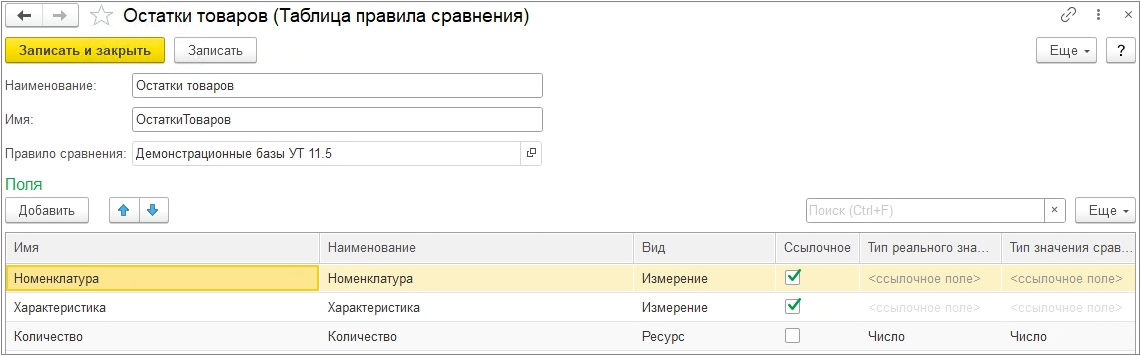
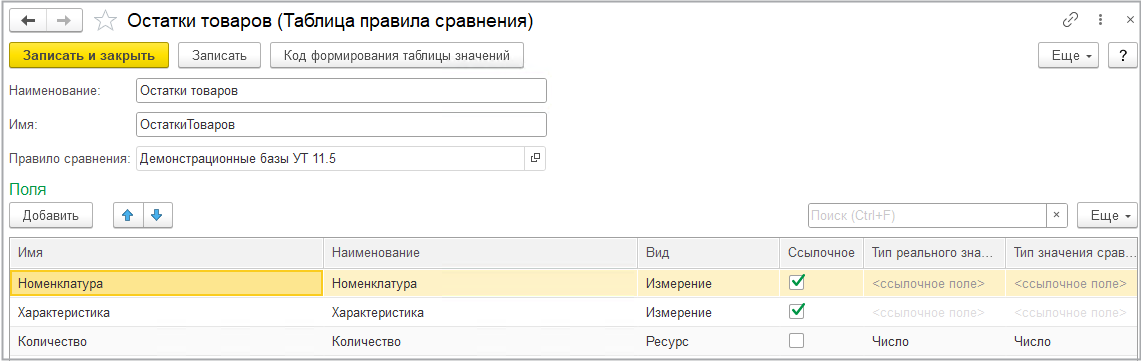
Дополнения по результату доработки версии 1.0.1

diff --git a/docs/work/comparison/concept.md b/docs/work/comparison/concept.md
@@ -4,8 +4,9 @@
 
 Сравнение данных по каждой из таблиц правила сравнения делится на следующие этапы:
 
-1. **Подготовка таблиц выгрузок**. Таблицы, выгружаемые из сравниваемых баз, не обрабатываются Мастером выгрузки данных и записываются в файл выгрузки "как есть". На этом этапе Сравнитель приводит обе исходные таблицы к виду, описанному в описании таблицы правила сравнения разработчиком правила сравнения;
+1. **Подготовка таблиц выгрузок**. Таблицы, выгружаемые из целевых баз, не обрабатываются Мастером выгрузки данных и записываются в файл выгрузки "как есть". На этом этапе Сравнитель приводит обе исходные таблицы к виду, описанному в описании таблицы правила сравнения разработчиком правила сравнения;
 2. **Преобразование реальных значений в значения сравнения**. Реальные значения (значения, прочитанные из исходной выгрузки) не используются для работы Сравнителя. Для соотнесения значений измерений, а также для сравнения значений ресурсов применяются **значения сравнения**. На данном этапе "рядом" с таблицами реальных значений создаются таблицы значений сравнения. Разработчик правила сравнения может определить произвольную логику преобразования значений отдельных полей, используя [подключаемую обработку сравнения](../../development/comp-rules/comparison-epf.md);
-3. **Соотнесение строк**. Сравнитель производит соотнесение строк из таблицы 1-й ИБ с таблицей 2-й ИБ. Соотнесение происходит по совпадению значений всех измерений одной строки со значениями всех измерений другой строки;
-4. **Сравнение ресурсов соотнесенных строк**. В соотнесенных строках теперь сравниваются значения ресурсов. Если значения всех ресурсов равны, обработка этой пары строк прекращается. Произвольная логика сравнения ресурсов и определения того, равны ли две строки, может быть определена в [подключаемой обработке сравнения](../../development/comp-rules/comparison-epf.md);
-5. **Запись результата сравнения**. По окончании обхода пар соотнесенных строк Сравнитель получает таблицы с расхождениями - строками, на которые нужно обратить внимание пользователю. Эти строки записываются в текущий документ "**Сравнение данных**". На этом этапе из реальных значений также формируются **представления** для вывода пользователю в отчете о расхождениях. Нестандартная логика преобразования реальных значений в представления может быть определена в [подключаемой обработке сравнения](../../development/comp-rules/comparison-epf.md).
+3. **Контроль дублирования строк**. Сравнитель проверяет таблицы значений сравнения на предмет наличия дубликатов строк по значениям измерений. При наличии дубликатов сравнение будет прервано, документ примет статус "**Проблема с данными**";
+4. **Соотнесение строк**. Сравнитель производит соотнесение строк из таблицы 1-й ИБ с таблицей 2-й ИБ. Соотнесение происходит по совпадению значений всех измерений одной строки со значениями всех измерений другой строки;
+5. **Сравнение ресурсов соотнесенных строк**. В соотнесенных строках теперь сравниваются значения ресурсов. Если значения всех ресурсов равны, обработка этой пары строк прекращается. Произвольная логика сравнения ресурсов и определения того, равны ли две строки, может быть определена в [подключаемой обработке сравнения](../../development/comp-rules/comparison-epf.md);
+6. **Запись результата сравнения**. По окончании обхода пар соотнесенных строк Сравнитель получает таблицы с расхождениями - строками, на которые нужно обратить внимание пользователю. Эти строки записываются в текущий документ "**Сравнение данных**". На этом этапе из реальных значений также формируются **представления** для вывода пользователю в отчете о расхождениях. Нестандартная логика преобразования реальных значений в представления может быть определена в [подключаемой обработке сравнения](../../development/comp-rules/comparison-epf.md).

diff --git a/docs/work/data-delivery/to-comparator.md b/docs/work/data-delivery/to-comparator.md
@@ -1,10 +1,10 @@
-# Передача выгрузок Сравнителю сравниваемыми базами
+# Передача выгрузок Сравнителю целевыми базами
 ---
-> ***Внимание!** Для применения данного сценария требуется установить [Мастер выгрузки данных](wizard-install.md) в каждую из сравниваемых информационных баз.*
+> ***Внимание!** Для применения данного сценария требуется установить [Мастер выгрузки данных](wizard-install.md) в каждую из целевых информационных баз.*
 
-> ***Внимание!** Для работы этого сценария требуется, чтобы обе сравниваемые базы работали в операционной системе Windows, а в системе была зарегистрирована COM-компонента V83.COMConnector той же версии платформы, на которой работают сравниваемые ИБ и ИБ Сравнителя. Поддержка подключения к Сравнителю через Web-сервис планируется в будущих версиях конфигурации.*
+> ***Внимание!** Для работы этого сценария требуется, чтобы обе целевые базы работали в операционной системе Windows, а в системе была зарегистрирована COM-компонента V83.COMConnector той же версии платформы, на которой работают целевые ИБ и ИБ Сравнителя. Поддержка подключения к Сравнителю через Web-сервис планируется в будущих версиях конфигурации.*
 
-Данный сценарий срабатывает исключительно по инициативе сравниваемых информационных баз. В каждой из сравниваемых баз настраивается:
+Данный сценарий срабатывает исключительно по инициативе целевых информационных баз. В каждой из целевых баз настраивается:
 
 - Строка соединения и данные пользователя **информационной базы Сравнителя**;
 - Расписание команды "**Выгрузить данные в Сравнитель**".
@@ -12,4 +12,4 @@
 Помимо данных информационной базы Сравнителя, в настройках Мастера выгрузки также требуется указать:
 
 - **Идентификатор правила сравнения** - его можно получить в карточке правила сравнения в Сравнителе;
-- **Ключ пары ИБ** - позволяет идентифицировать эту пару ИБ и отличить ее от других пар ИБ, сравниваемых по этому же правилу сравнения. Должен быть **одинаковым** в настройках обеих сравниваемых баз, а также **не повторяться** в других парах сравниваемых баз, которые передают данные этим же сценарием в ту же информационную базу Сравнителя.
+- **Ключ пары ИБ** - позволяет идентифицировать эту пару ИБ и отличить ее от других пар ИБ, сравниваемых по этому же правилу сравнения. Должен быть **одинаковым** в настройках обеих целевых баз, а также **не повторяться** в других парах информационных баз, которые передают данные в ту же информационную базу Сравнителя и используют то же правило сравнения.

diff --git a/docs/work/data-delivery/using-file-system.md b/docs/work/data-delivery/using-file-system.md
@@ -1,15 +1,15 @@
 # Передача и получение выгрузок через файловую систему
 ---
-> ***Внимание!** Для применения данного сценария требуется установить [Мастер выгрузки данных](wizard-install.md) в каждую из сравниваемых информационных баз.*
+> ***Внимание!** Для применения данного сценария требуется установить [Мастер выгрузки данных](wizard-install.md) в каждую из целевых информационных баз.*
 
-Этот сценарий требует настройки как со стороны сравниваемых баз, так и со стороны Сравнителя. Его логика работы следующая:
+Этот сценарий требует настройки как со стороны целевых баз, так и со стороны Сравнителя. Его логика работы следующая:
 
 1. Первая сравниваемая ИБ выполняет самостоятельную выгрузку в каталог 1-й ИБ;
 2. Вторая сравниваемая ИБ обрабатывает еще не обрабатывавшиеся выгрузки 1-й ИБ путем определения списка файлов в каталоге 1-й ИБ, которых нет в каталоге 2-й ИБ. Первая база читает общие параметры выгрузки и список выгруженных таблиц из выгрузок 1-й ИБ и, используя эти данные, выгружает свои данные в каталог 2-й ИБ;
 3. Информационная база Сравнителя ищет выгрузки, присутствующие в обоих каталогах (т.е. уже обработанные 2-й ИБ), записывает их в новый документ "**Сравнение данных**" и удаляет оба файла выгрузок.
 
-В Мастере выгрузки на стороне сравниваемых ИБ необходимо выбрать сценарий "**Файловая система**".
+В Мастере выгрузки на стороне целевых ИБ необходимо выбрать сценарий "**Файловая система**".
 
 В Сравнителе необходимо создать новый **сценарий получения выгрузок данных** (справочник доступен в разделе "**Выгрузка и сравнение**"). В качестве вида сценария необходимо указать "**Файловая система**" и выбрать каталоги, в которые выгружают данные 1-я и 2-я ИБ.
 
-Для автоматизации данного сценария требуется установить расписание выгрузки в Мастере выгрузки данных в сравниваемых базах, а также включить выполнение сценария в Сравнителе по расписанию.
+Для автоматизации данного сценария требуется установить расписание выгрузки в Мастере выгрузки данных в целевых базах, а также включить выполнение сценария в Сравнителе по расписанию.

diff --git a/docs/settings/updating.md b/docs/settings/updating.md
@@ -1,0 +1,15 @@
+# Установка обновлений приложения
+---
+Перед установкой обновления необходимо распаковать архив поставки и выполнить установку комплекта поставки **новой** версии (см. [инструкцию по установке конфигурации](../introduction/beginning/install.md)).
+
+## Обновление типовой версии конфигурации
+Если в конфигурации не включалась возможность редактирования через Конфигуратор, обновление можно выполнить без использования Конфигуратора. Для этого необходимо перейти в раздел "**Настройка**", выбрать "**Обслуживание**", раскрыть подменю "**Обновление приложения**" и нажать на гиперссылку "**Установка обновлений и исправлений (патчей)**".
+
+В открывшейся форме необходимо выбрать файл `1cv8.cfu` из каталога поставки **новой** версии конфигурации (путь к каталогу указывается в установщике поставки). После выбора файла необходимо нажать "**Далее**" и следовать дальнейшим инструкциям.
+
+## Обновление конфигурации с внесенными изменениями
+Если конфигурация находится в режиме поддержки "**На поддержке с возможностью изменения**", то для обновления потребуется использование Конфигуратора.
+
+В Конфигураторе необходимо перейти в меню "**Конфигурация**", раскрыть подменю "**Поддержка**" и выбрать "**Обновить конфигурацию**". В открывшемся диалоговом окне необходимо выбрать файл `1cv8.cfu` из каталога поставки **новой** версии конфигурации и следовать дальнейшим инструкциям.
+
+После обновления Конфигуратор может предложить обновить конфигурацию базы данных, делать это из Конфигуратора **не следует**. Для завершения обновления необходимо открыть программу в режиме 1С:Предприятия, перейти в меню "**Конфигурация**", раскрыть подменю "**Поддержка**" и выбрать "**Обновить конфигурацию**". В открывшемся диалоговом окне необходимо выбрать вариант "**Файл обновления не требуется, так как он уже загружен в основную конфигурацию**". После этого нажать "**Далее**" и следовать дальнейшим инструкциям.

diff --git a/docs/work/data-delivery/from-comparator.md b/docs/work/data-delivery/from-comparator.md
@@ -1,9 +1,9 @@
-# Получение выгрузки от сравниваемых баз по инициативе Сравнителя
+# Получение выгрузки от целевых баз по инициативе Сравнителя
 ---
-> ***Внимание!** Для работы этого сценария требуется, чтобы Сравнитель работал в операционной системе Windows, а в системе была зарегистрирована COM-компонента V83.COMConnector той же версии платформы, на которой работают сравниваемые ИБ и ИБ Сравнителя.*
+> ***Внимание!** Для работы этого сценария требуется, чтобы Сравнитель работал в операционной системе Windows, а в системе была зарегистрирована COM-компонента V83.COMConnector той же версии платформы, на которой работают целевые ИБ и ИБ Сравнителя.*
 
-Данный сценарий предполагает настройку только со стороны Сравнителя. Он заключается в том, что Сравнитель самостоятельно подключается к каждой из сравниваемых баз, используя COM-соединение и получает от них данные. Полученные выгрузки записываются в новый документ "**Сравнение данных**".
+Данный сценарий предполагает настройку только со стороны Сравнителя. Он заключается в том, что Сравнитель самостоятельно подключается к каждой из целевых баз, используя COM-соединение и получает от них данные. Полученные выгрузки записываются в новый документ "**Сравнение данных**".
 
-Для настройки сценария необходимо создать новый **сценарий получения выгрузок данных** (справочник доступен в разделе "**Выгрузка и сравнение**"). В качестве вида сценария необходимо указать "**Прямое подключение к сравниваемым ИБ**" и указать данные для подключения к каждой из сравниваемых ИБ.
+Для настройки сценария необходимо создать новый **сценарий получения выгрузок данных** (справочник доступен в разделе "**Выгрузка и сравнение**"). В качестве вида сценария необходимо указать "**Прямое подключение к целевым ИБ**" и указать данные для подключения к каждой из целевых ИБ.
 
 Для автоматизации данного сценария требуется включить выполнение сценария по расписанию.

diff --git a/docs/development/comp-rules/catalogs.md b/docs/development/comp-rules/catalogs.md
@@ -11,6 +11,8 @@
 
 На форме также присутствует интерфейс для загрузки **подключаемых обработок** выгрузки и сравнения. Для загрузки обработки, выгрузки обработки в файл, а также удаления обработки из правила сравнения следует использовать гиперссылку "**Действия**" справа от имени файла обработки.
 
+Для автоматического формирования содержимого функции `ПоддерживаемыеТаблицы` подключаемой обработки можно воспользоваться командой "**ПоддерживаемыеТаблицы()**".
+
 ## Таблицы правил сравнения
 
 Из карточки правила сравнения можно перейти к списку принадлежащих правилу **таблиц правила сравнения**.
@@ -27,5 +29,7 @@
 - **Наименование** - используется только для вывода в программе;
 - **Вид** - указывает, что поле является либо измерением, либо ресурсом;
 - **Ссылочное** - включает режим ссылочного поля. Типы реального значения и значения сравнения становятся недоступными для редактирования;
-- **Тип реального значения** - тип значения, фактически выгружаемого из сравниваемых информационных баз;
+- **Тип реального значения** - тип значения, фактически выгружаемого из целевых информационных баз;
 - **Тип значения сравнения** - тип значения, используемого для сравнения.
+
+Также, в карточке таблицы имеется команда "**Код формирования таблицы значений**". Эта команда генерирует программный код на встроенном языке на основании данных полей таблицы. Этот код можно использовать в функциях `ВыгрузитьТаблицу<...>` подключаемой обработки выгрузки.

diff --git a/docs/settings/patches.md b/docs/settings/patches.md
@@ -1,0 +1,17 @@
+# Установка исправлений (патчей)
+---
+**Патчи** - это небольшие расширения конфигурации, позволяющие применить исправления найденных в конфигурации ошибок без необходимости полного обновления и прерывания работы пользователей. Для применения патча достаточно перезайти в приложение тем пользователям, которым мешает исправляемая ошибка.
+
+Патчи для Сравнителя имеют расширение `cfe`, а их имя начинается с `EF_COMP` (например, `EF_COMP_GL5_01.epf`).
+
+Каждый патч предназначен для определенных сборок конфигурации, поэтому при [обновлении версии Сравнителя](updating.md) все установленные патчи автоматически удаляются.
+
+Работа с патчами осуществляется в подменю "**Обновление приложения**" формы "**Обслуживание**" раздела "**Настройка**".
+
+## Просмотр и управление установленными патчами
+
+По гиперссылке "**Установленные исправления (патчи)**" можно просмотреть список установленных в приложении патчей, а также осуществлять действия с ними:
+
+* **Установить исправление** - позволяет установить патч из файла на компьютере. Допускается установка как отдельного патча (файл с расширением `cfe`), так и ZIP-архива с несколькими патчами;
+* **Удалить исправление** - позволяет удалить патч из приложения;
+* **Выгрузить подключеннные исправления** - выгружает все установленные патчи в ZIP-архив. Для выгрузки одного патча из списка следует выделить его в списке и использовать команду "**Сохранить как**" в подменю "**Еще**".

diff --git a/docs/introduction/about/concept.md b/docs/introduction/about/concept.md
@@ -11,14 +11,14 @@
 ### Таблицы правил сравнения
 Каждая таблица правила сравнения позволяет передавать для сравнения данные определенного характера. В примере этой статьи будет таблица "**Остатки товаров**".
 
-Каждая таблица имеет **поля**, отражающие колонки таблиц, выгружаемых из сравниваемых информационных баз.
+Каждая таблица имеет **поля**, отражающие колонки таблиц, выгружаемых из целевых информационных баз.
 
 Каждое поле может быть либо **измерением**, либо **ресурсом**. Измерения предназначены для однозначной идентификации строк таблицы, а ресурсы содержат значения, которые нужно сравнивать.
 
 Рассматривая пример с остатками товаров, можно задать таблицу, в которой будут **измерения** "*Номенклатура*" и "*Характеристика*", а также ресурс "*Остаток*", содержащий количество товара на остатках.
 
 ## Выгрузка данных
-Первый этап итерации сравнения данных - это выгрузка данных из двух сравниваемых информационных баз и передача этих выгрузок в Сравнитель. Выгрузки хранят таблицы правил сравнения, наполненные данными из сравниваемых баз.
+Первый этап итерации сравнения данных - это выгрузка данных из двух целевых информационных баз и передача этих выгрузок в Сравнитель. Выгрузки хранят таблицы правил сравнения, наполненные данными из целевых баз.
 
 ## Сравнение данных
 Когда две выгрузки поступили в Сравнитель, данные в них можно сравнить.

diff --git a/docs/development/comp-rules/data-export-epf.md b/docs/development/comp-rules/data-export-epf.md
@@ -59,6 +59,8 @@
 КонецФункции
 ```
 
+> **СОВЕТ:** Для автоматического формирования содержимого этой функции по данным правила сравнения Сравнителя рекомендуется использовать кнопку "**ПоддерживаемыеТаблицы**" в карточке правила сравнения.
+
 ### Функция ОбщиеПараметрыВыгрузки
 При выгрузке из 1-й ИБ единоразово вычисляет общие параметры выгрузки - произвольное значение, передаваемое в функции выгрузки таблиц.
 
@@ -134,6 +136,8 @@
 	Возврат СтрШаблон("%1 %2", Ссылка.УникальныйИдентификатор(), Ссылка);
 КонецФункции
 ```
+
+> **СОВЕТ:** Для автоматического формирования участка кода, формирующего выгружаемую таблицу значений, из данных Сравнителя рекомендуется использовать кнопку "**Код формирования таблицы значений**" в карточке таблицы правила сравнения.
 
 ### Выгрузка значений ссылочных полей
 Если поле в таблице правила сравнения имеет флажок "**Ссылочное**", его необходимо выгружать в виде строки следующего формата:

diff --git a/docs/introduction/about/newvers.md b/docs/introduction/about/newvers.md
@@ -17,6 +17,6 @@
 
 - **1Cv8.cf** - файл конфигурации Сравнителя. Может быть использован для создания информационной базы из шаблона;
 - **1Cv8.cfu** - файл обновления конфигурации с предыдущих версий;
-- **МастерВыгрузкиДанныхВСравнитель.epf** - дополнительная обработка, предназначенная для встраивания в сравниваемые информационные базы при использовании некоторых сценариев работы;
+- **МастерВыгрузкиДанныхВСравнитель.epf** - дополнительная обработка, предназначенная для встраивания в целевые информационные базы при использовании некоторых сценариев работы;
 - **ШаблонПодключаемойОбработкиВыгрузки.epf** - внешняя обработка для быстрого начала разработки подключаемых обработок выгрузки;
 - **ШаблонПодключаемойОбработкиСравнения.epf** - внешняя обработка для быстрого начала разработки подключаемых обработок сравнения.

diff --git a/docs/work/data-delivery/wizard-install.md b/docs/work/data-delivery/wizard-install.md
@@ -1,6 +1,6 @@
 # Установка Мастера выгрузки
 ---
-**Мастер выгрузки данных в Сравнитель** - это дополнительная обработка, предназначенная для выгрузки данных во всех сценариях, кроме "[Получение выгрузки от сравниваемых баз по инициативе Сравнителя](from-comparator.md)".
+**Мастер выгрузки данных в Сравнитель** - это дополнительная обработка, предназначенная для выгрузки данных во всех сценариях, кроме "[Получение выгрузки от целевых баз по инициативе Сравнителя](from-comparator.md)".
 
 Работоспособность обработки гарантируется в конфигурациях на базе Библиотеки стандартных подсистем версий 3.1.9 и 3.1.10. Для определения версии БСП перейдите в регистр сведений "Версии подсистем" в сравниваемой ИБ - текущая версия БСП будет указана в записи подсистемы "*СтандартныеПодсистемы*".
 

diff --git a/docs/introduction/about/sys-req.md b/docs/introduction/about/sys-req.md
@@ -16,4 +16,4 @@
 Для работы прямого подключения также требуется, чтобы на локальном комьютере или сервере была зарегистрирована компонента "**V83.COMConnector**" той же версии платформы, на которой работает Сравнитель.
 
 ## Передача выгрузок данных через файловые каталоги
-Данный вариант передачи выгрузок данных работает на любой операционной системе. Единственное требование - наличие **единого** файлового каталога, к которому имеют доступ как Сравнитель, так и сравниваемые информационные базы.
+Данный вариант передачи выгрузок данных работает на любой операционной системе. Единственное требование - наличие **единого** файлового каталога, к которому имеют доступ как Сравнитель, так и целевые информационные базы.
